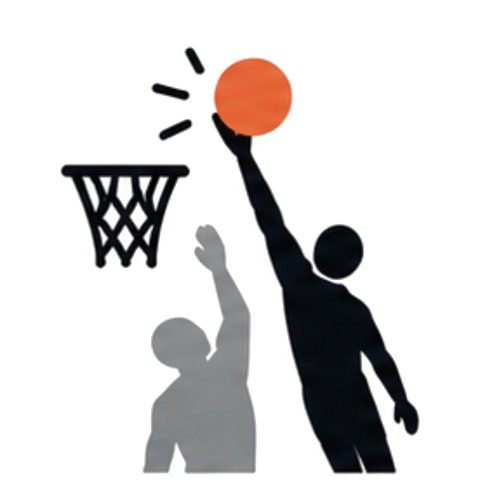
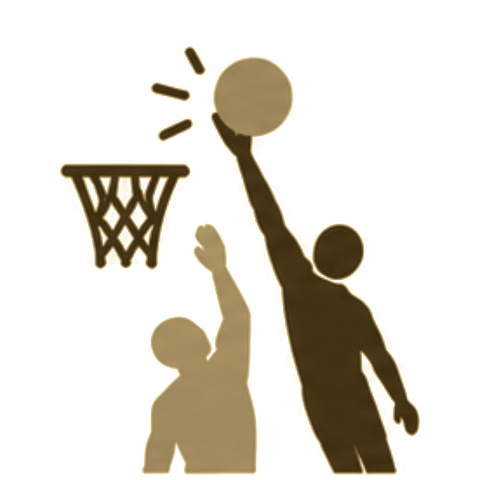
v32

diff --git a/css/styles.css b/css/styles.css
@@ -352,16 +352,22 @@ button{ font-family: inherit; }
 .card-name{ font-family: var(--display); font-size: 18px; font-weight: 700; line-height: 1.15; text-shadow: 0 2px 6px rgba(0,0,0,0.6); }
 .card-meta{ font-size: 12px; color: var(--text-dim); margin-top: 3px; }
 .card-team{ font-size: 11.5px; color: var(--text-faint); margin-top: 2px; }
-.card-traits{ display: flex; flex-wrap: wrap; gap: 8px; margin-top: 8px; }
+.card-traits{ display: flex; flex-wrap: wrap; gap: 10px 8px; margin-top: 8px; }
 
-/* Icon-only trait badge — a small gold tile (matching the site's brand
-   gold, same token used on names/kickers) with a single clipped corner,
-   echoing the photo frames. Tile is intentionally compact and padding is
-   tight so the icon itself reads as large as possible against it. Every
-   image inside is object-fit:contain, so the full source graphic always
-   shows — nothing is ever cropped, regardless of aspect ratio — and the
-   icons themselves now have a transparent background, so they sit
-   directly on the gold rather than showing a white box. */
+/* Icon + caption, stacked. The tile is a small gold badge (matching the
+   site's brand gold, same token used on names/kickers) with a single
+   clipped corner, echoing the photo frames — padding stays tight so the
+   icon reads as large as possible against it. The trait name prints
+   underneath as a small caption, still available via title/alt too. */
+.trait-item{
+  display: inline-flex; flex-direction: column; align-items: center; gap: 5px;
+  width: 50px;
+}
+.trait-label{
+  font-family: var(--data); font-size: 8.5px; letter-spacing: 0.03em; text-transform: uppercase;
+  color: var(--text-faint); text-align: center; line-height: 1.25;
+  max-width: 60px;
+}
 .trait-chip{
   display: inline-flex; align-items: center; justify-content: center;
   width: 50px; height: 50px; flex-shrink: 0;
@@ -377,7 +383,9 @@ button{ font-family: inherit; }
   width: 100%; height: 100%; display: inline-flex; align-items: center; justify-content: center;
 }
 /* Skill icon — always shows the full image (never cropped) at a consistent
-   scale inside the tile, whatever the source graphic's own aspect ratio. */
+   scale inside the tile, whatever the source graphic's own aspect ratio.
+   Icons are a gold/bronze duotone now (tone-on-tone with the tile itself,
+   an engraved-medallion look) rather than the original black + orange. */
 .trait-icon{
   width: 100%; height: 100%; border-radius: 4px;
   object-fit: contain; object-position: center; display: block;
@@ -385,7 +393,9 @@ button{ font-family: inherit; }
 .profile-traits{ margin-top: 0; }
 /* Slightly larger in the expanded profile, but still compact — skills are
    the first real content block there, not an afterthought. */
+.profile-traits .trait-item{ width: 64px; }
 .profile-traits .trait-chip{ width: 64px; height: 64px; padding: 2px; }
+.profile-traits .trait-label{ font-size: 9.5px; max-width: 76px; }
 
 /* Small uppercase "kicker" label (archetype) above a name — a quick-read
    descriptor line, same idea as a spec-sheet header. */
@@ -640,6 +650,7 @@ button{ font-family: inherit; }
   .profile-photo, .profile-photo-fallback{ width: 104px; height: 144px; }
   .profile-overlay{ padding: 20px 8px; }
   .profile-wrap{ padding: 44px 14px 22px; border-radius: 16px; }
+  .profile-traits .trait-item{ width: 56px; }
   .profile-traits .trait-chip{ width: 56px; height: 56px; padding: 2px; }
   .profile-bio .kv-grid{ grid-template-columns: repeat(auto-fill, minmax(78px, 1fr)); }
 }

diff --git a/js/render.js b/js/render.js
@@ -65,16 +65,18 @@
   // trait's own icon URL from the player's row (trait_1..trait_4), when the
   // player has one — takes priority over the shared TRAIT_ICON_MAP so each
   // player can eventually carry their own icon per strength.
-  // Icon-only now — no visible label text on the chip itself. The trait
-  // name still travels with it as a hover tooltip (title) and as image alt
-  // text, so it isn't lost, just no longer printed.
+  // The tile stays icon-first, but the trait name now prints again as a
+  // small caption underneath — the tooltip/alt text still carry it too.
   function traitChip(key, traitLabels, perPlayerIconUrl) {
     const label = traitLabels[key] || key.replace(/_/g, " ");
     const iconSrc = looksLikeImageUrl(perPlayerIconUrl) ? perPlayerIconUrl : TRAIT_ICON_MAP[key];
     const badge = iconSrc
       ? '<img class="trait-icon" src="' + U.esc(iconSrc) + '" alt="' + U.esc(label) + '" loading="lazy">'
       : '<span class="trait-mono">' + U.esc(U.monogram(key)) + "</span>";
-    return '<span class="trait-chip" title="' + U.esc(label) + '">' + badge + "</span>";
+    return '<span class="trait-item" title="' + U.esc(label) + '">' +
+      '<span class="trait-chip">' + badge + "</span>" +
+      '<span class="trait-label">' + U.esc(label) + "</span>" +
+      "</span>";
   }
 
   // Buckets a free-text position into a broad group so the card can carry a
